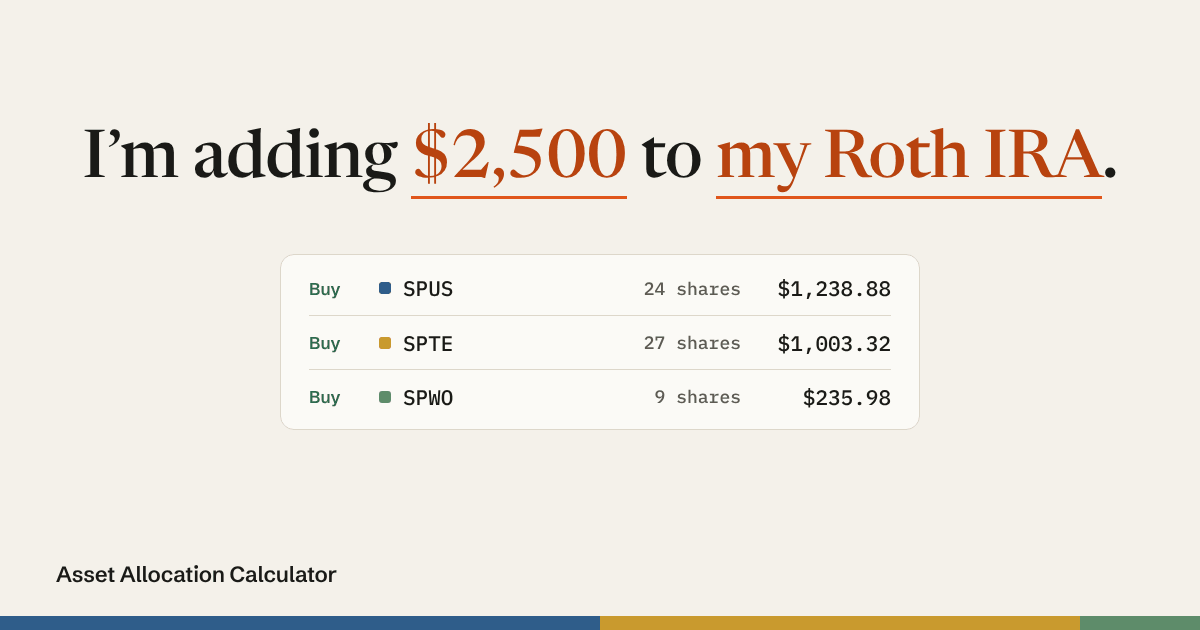
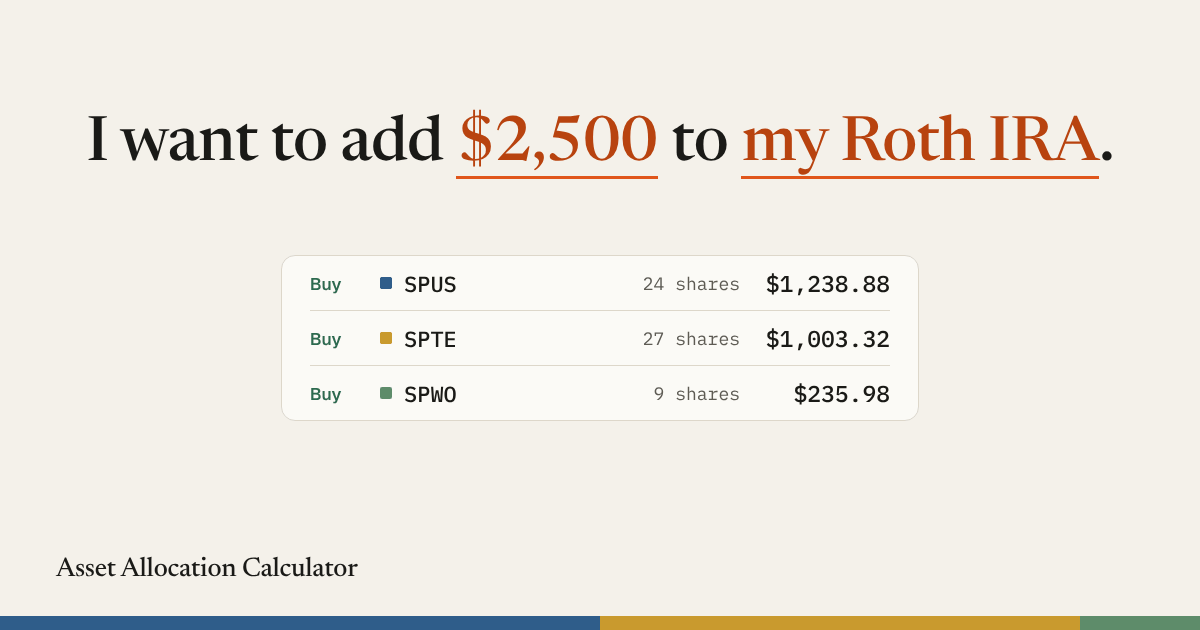
Say "I want to add / remove / rebalance"
The sentence now reads "I want to [add] [$2,500] to [my Roth IRA]." with
"remove" (from) and "rebalance" as the other choices, instead of "I'm
adding / taking out / just rebalancing". The recap bar, the import dialog's
"Use as the amount I want to add", the page description and the link
preview image (re-rendered, with the serif name the header now uses) say
the same.

Claude-Session: https://claude.ai/code/session_0116heGBf4pNXFX8AfQfKBDz

diff --git a/index.html b/index.html
@@ -6,7 +6,7 @@
     <meta name="viewport" content="width=device-width, initial-scale=1.0, viewport-fit=cover" />
     <meta name="theme-color" content="#F4F1EA" media="(prefers-color-scheme: light)" />
     <meta name="theme-color" content="#151412" media="(prefers-color-scheme: dark)" />
-    <meta name="description" content="Say how much you're adding. See exactly which funds to buy, in shares and dollars, to stay on target." />
+    <meta name="description" content="Say how much you want to add. See exactly which funds to buy, in shares and dollars, to stay on target." />
     <title>Asset Allocation Calculator</title>
     <link rel="apple-touch-icon" href="/apple-touch-icon.png" />
 
@@ -14,7 +14,7 @@
     <meta property="og:type" content="website" />
     <meta property="og:site_name" content="Asset Allocation Calculator" />
     <meta property="og:title" content="Asset Allocation Calculator" />
-    <meta property="og:description" content="Say how much you're adding. See exactly which funds to buy, in shares and dollars, to stay on target." />
+    <meta property="og:description" content="Say how much you want to add. See exactly which funds to buy, in shares and dollars, to stay on target." />
     <meta property="og:url" content="https://asset-allocation-app-nine.vercel.app/" />
     <meta property="og:image" content="https://asset-allocation-app-nine.vercel.app/og.png" />
     <meta property="og:image:type" content="image/png" />
@@ -23,7 +23,7 @@
     <meta property="og:image:alt" content="The sentence “I’m adding $2,500 to my Roth IRA” above three trades: buy 24 shares of SPUS, 27 of SPTE and 9 of SPWO." />
     <meta name="twitter:card" content="summary_large_image" />
     <meta name="twitter:title" content="Asset Allocation Calculator" />
-    <meta name="twitter:description" content="Say how much you're adding. See exactly which funds to buy, in shares and dollars, to stay on target." />
+    <meta name="twitter:description" content="Say how much you want to add. See exactly which funds to buy, in shares and dollars, to stay on target." />
     <meta name="twitter:image" content="https://asset-allocation-app-nine.vercel.app/og.png" />
     <link rel="preconnect" href="https://fonts.googleapis.com" />
     <link rel="preconnect" href="https://fonts.gstatic.com" crossorigin />

diff --git a/src/app/Sentence.tsx b/src/app/Sentence.tsx
@@ -35,7 +35,7 @@ function BlankSelect<T extends string>({ value, options, onChange, label }: {
 interface SentenceProps {
   verb: Verb;
   onVerb: (verb: Verb) => void;
-  /** Holdings are on; without them, "just rebalancing" says it uses what you own. */
+  /** Holdings are on; without them, "rebalance" says it uses what you own. */
   hasHoldings: boolean;
   amount: string;
   onAmount: (value: string) => void;
@@ -50,18 +50,18 @@ interface SentenceProps {
 const AMOUNT_PLACEHOLDER = '2,500';
 
 /**
- * "I'm [adding] [$2,500] to [my Roth IRA]."
+ * "I want to [add] [$2,500] to [my Roth IRA]."
  * Words are kept in groups that never break apart, so on a phone it wraps as
- * "I'm adding $2,500 / to my Roth IRA."
+ * "I want to add $2,500 / to my Roth IRA."
  */
 export const Sentence = forwardRef<HTMLButtonElement, SentenceProps>(function Sentence(props, portfolioRef) {
   const { verb, onVerb, hasHoldings, amount, onAmount, onAmountBlur, portfolioLabel, onPortfolioClick, menuOpen, all } = props;
   const hasAmount = verb !== 'rebal';
 
   const verbOptions: Array<{ value: Verb; label: string; menuLabel?: string }> = [
-    { value: 'add', label: 'adding' },
-    { value: 'out', label: 'taking out' },
-    { value: 'rebal', label: 'just rebalancing', ...(hasHoldings ? {} : { menuLabel: 'just rebalancing · uses what you own' }) },
+    { value: 'add', label: 'add' },
+    { value: 'out', label: 'remove' },
+    { value: 'rebal', label: 'rebalance', ...(hasHoldings ? {} : { menuLabel: 'rebalance · uses what you own' }) },
   ];
 
   const portfolioBlank = (
@@ -89,7 +89,7 @@ export const Sentence = forwardRef<HTMLButtonElement, SentenceProps>(function Se
   return (
     <p className={styles.sentence}>
       <span className={styles.keep}>
-        I'm{' '}
+        I want to{' '}
         <BlankSelect label="What you're doing" value={verb} onChange={onVerb} options={verbOptions} />
         {hasAmount && (
           <>

diff --git a/src/app/Calculator.tsx b/src/app/Calculator.tsx
@@ -178,7 +178,7 @@ export function Calculator() {
   }, [funds, values, targetsOk, wholeShares, holdings, tracksHoldings, prices]);
   const rebalance = () => { setVerb('rebal'); window.scrollTo?.({ top: 0, behavior: 'smooth' }); };
 
-  /** Picking "just rebalancing" turns holdings on, since it works from them. */
+  /** Picking "rebalance" turns holdings on, since it works from them. */
   const chooseVerb = (next: Verb) => {
     setVerb(next);
     if (next === 'rebal' && !tracksHoldings) actions.setTracksHoldings(true);
@@ -646,7 +646,7 @@ export function Calculator() {
         <div className={`${styles.recap} ${scrollingUp ? styles.recapShown : ''}`} aria-hidden={!scrollingUp} data-testid="recap">
           <div className={styles.recapInner}>
             <p className={styles.recapText}>
-              {effectiveVerb === 'add' ? 'Adding' : effectiveVerb === 'out' ? 'Taking out' : 'Rebalancing'}{' '}
+              {effectiveVerb === 'add' ? 'Add' : effectiveVerb === 'out' ? 'Remove' : 'Rebalance'}{' '}
               {effectiveVerb !== 'rebal' && (
                 <>
                   <button type="button" className={styles.recapBlank} onClick={editAmount} aria-label={`Change the amount, $${formatAmountInput(safeAmount)}`}>

diff --git a/src/app/__tests__/Calculator.test.tsx b/src/app/__tests__/Calculator.test.tsx
@@ -279,7 +279,7 @@ describe('Calculator', () => {
     const user = userEvent.setup();
     renderApp();
 
-    expect(screen.getByRole('option', { name: 'just rebalancing · uses what you own' })).toBeInTheDocument();
+    expect(screen.getByRole('option', { name: 'rebalance · uses what you own' })).toBeInTheDocument();
 
     await user.click(screen.getByRole('button', { name: 'my portfolio' }));
     const menu = screen.getByRole('dialog', { name: 'Portfolios' });
@@ -380,7 +380,7 @@ describe('Calculator', () => {
     expect(within(dialog).getByText('40.5 shares · $1,061.91')).toBeInTheDocument();
     expect(within(dialog).getAllByText('was nothing')).toHaveLength(2);
     expect(within(dialog).getByText('Replaces what you own in Roth IRA: 2 funds, $11,902.11.')).toBeInTheDocument();
-    await user.click(within(dialog).getByLabelText(/use as the amount i'm adding/i));
+    await user.click(within(dialog).getByLabelText(/use as the amount i want to add/i));
     await user.click(within(dialog).getByRole('button', { name: 'Replace holdings' }));
 
     expect(screen.queryByRole('dialog')).not.toBeInTheDocument();

diff --git a/src/app/ImportDialog.tsx b/src/app/ImportDialog.tsx
@@ -272,7 +272,7 @@ export function ImportDialog({ portfolio, fileName, result, prices, onApply, onC
                   <span className={styles.num}>{money(groups.cash)}</span>
                   <span className={styles.importCheck}>
                     <input type="checkbox" checked={useCash} onChange={e => setUseCash(e.target.checked)} />
-                    Use as the amount I'm adding
+                    Use as the amount I want to add
                   </span>
                 </label>
               </section>
